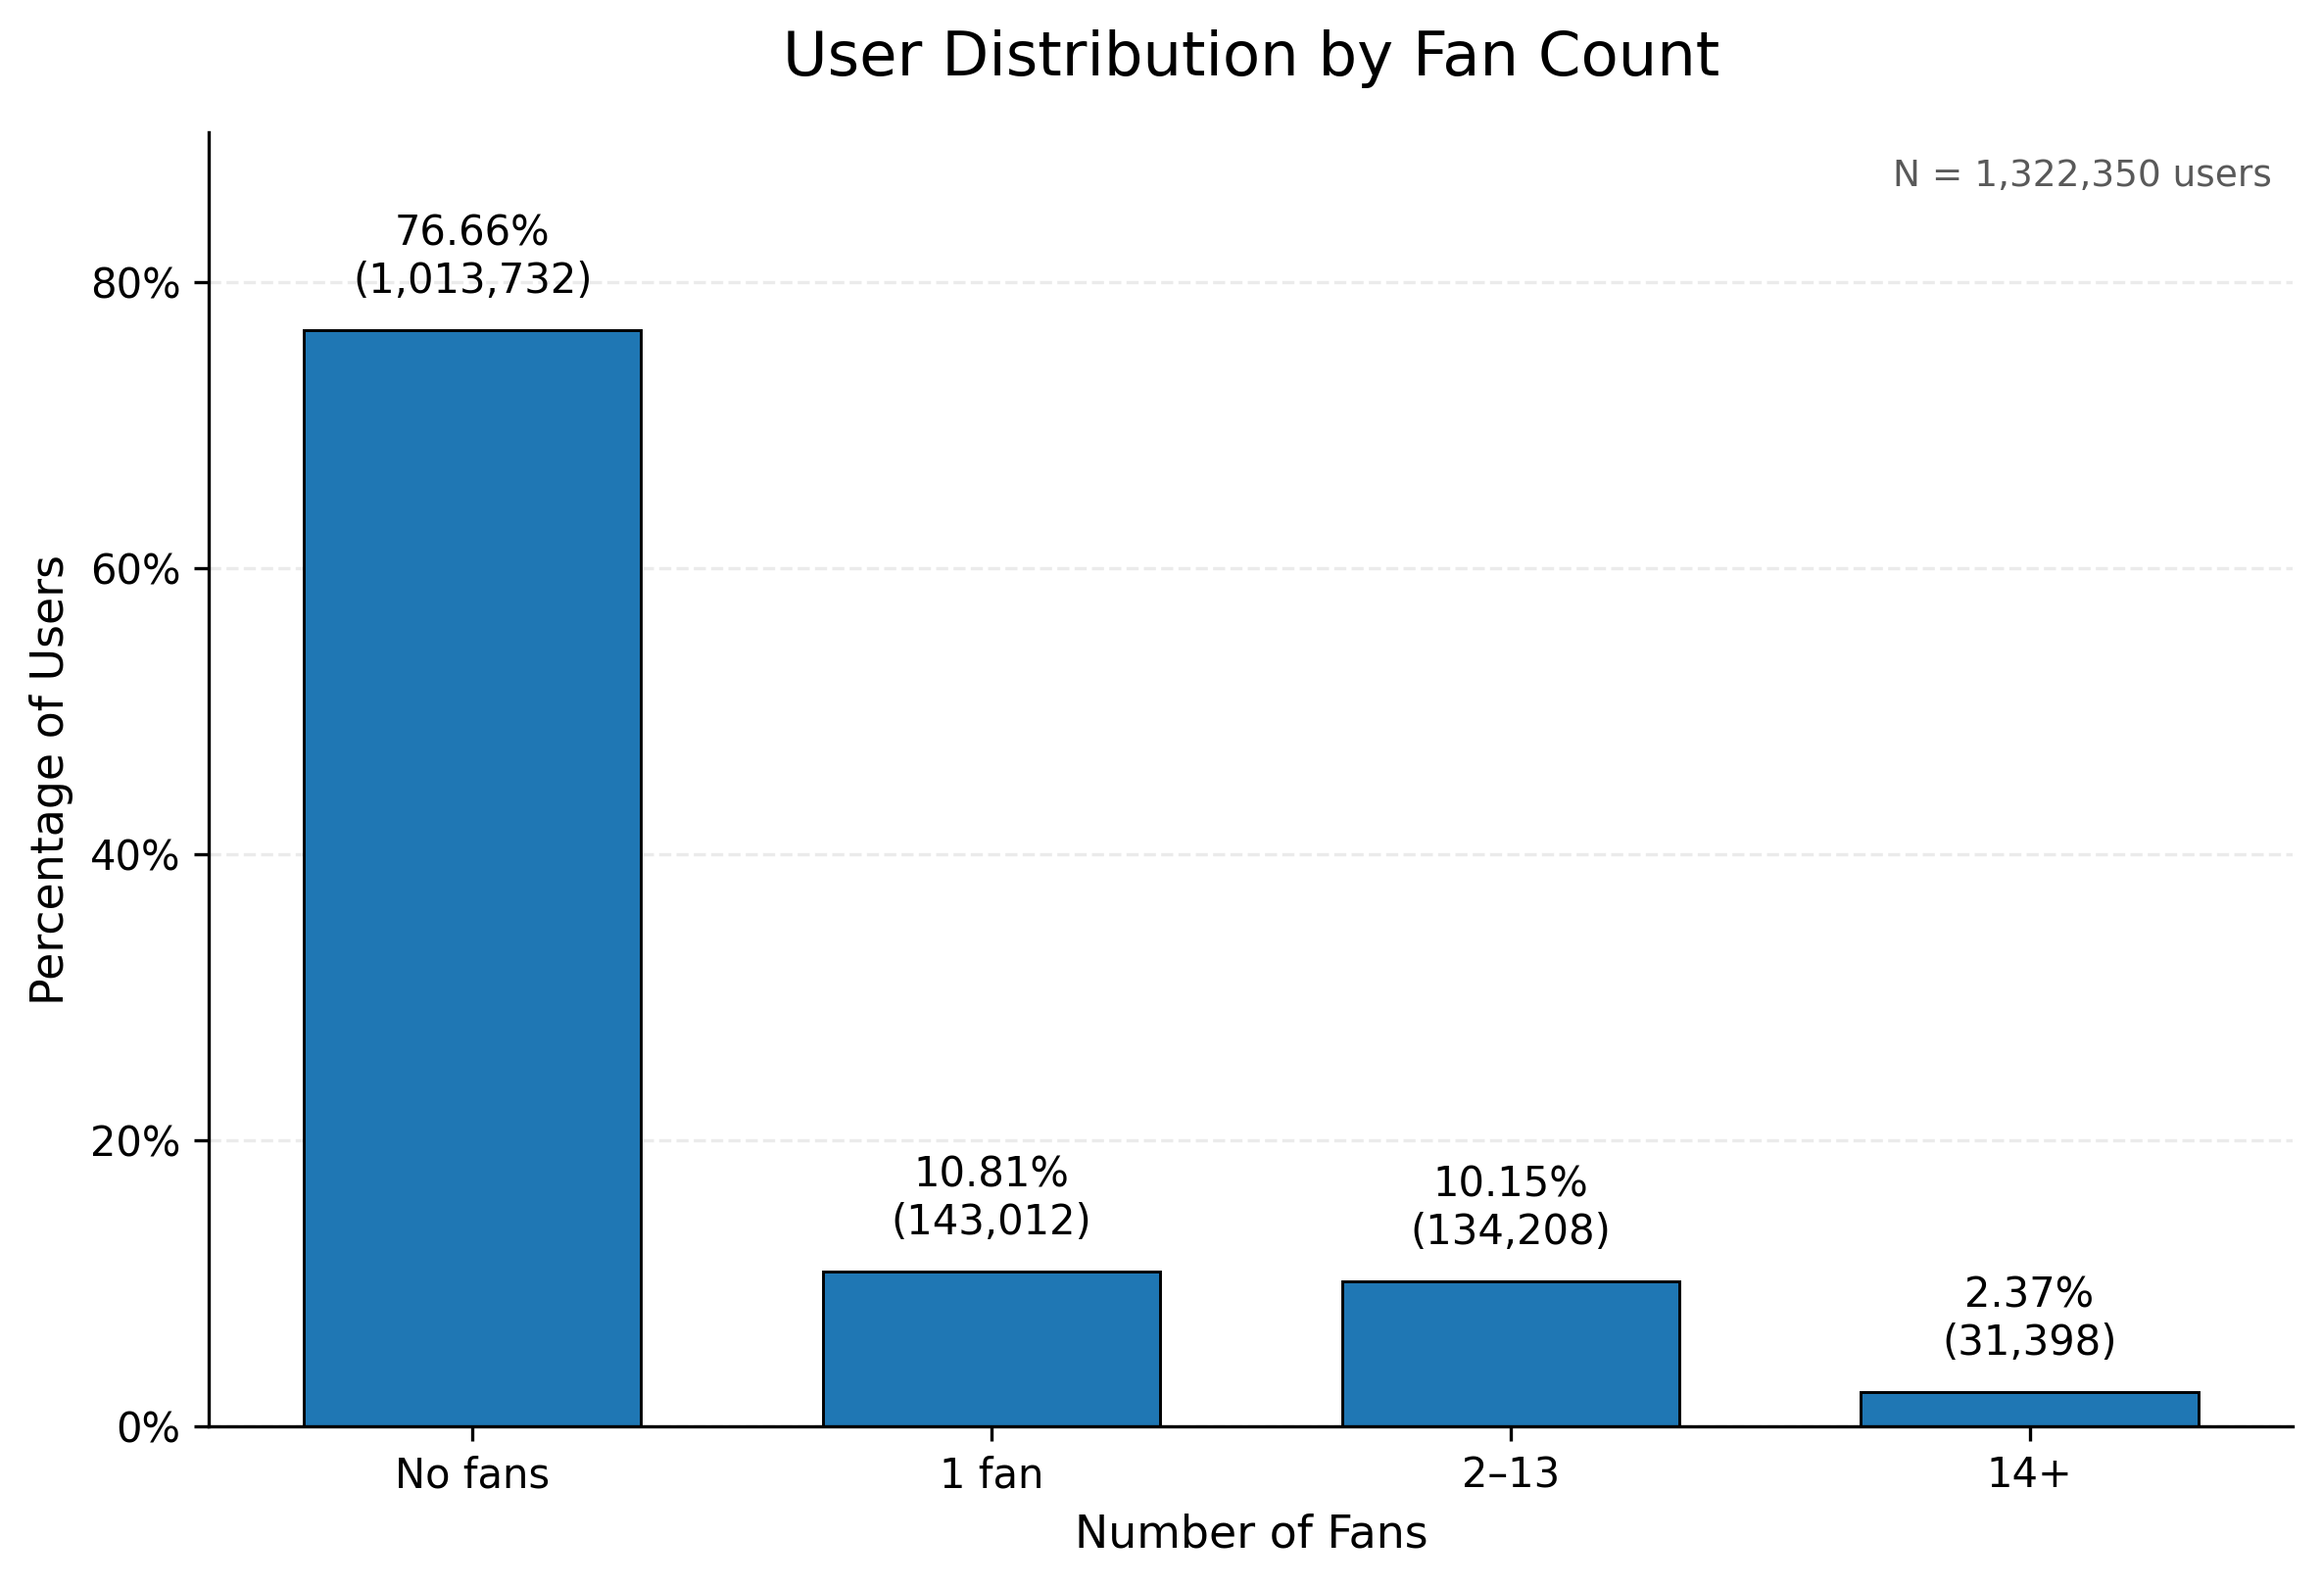
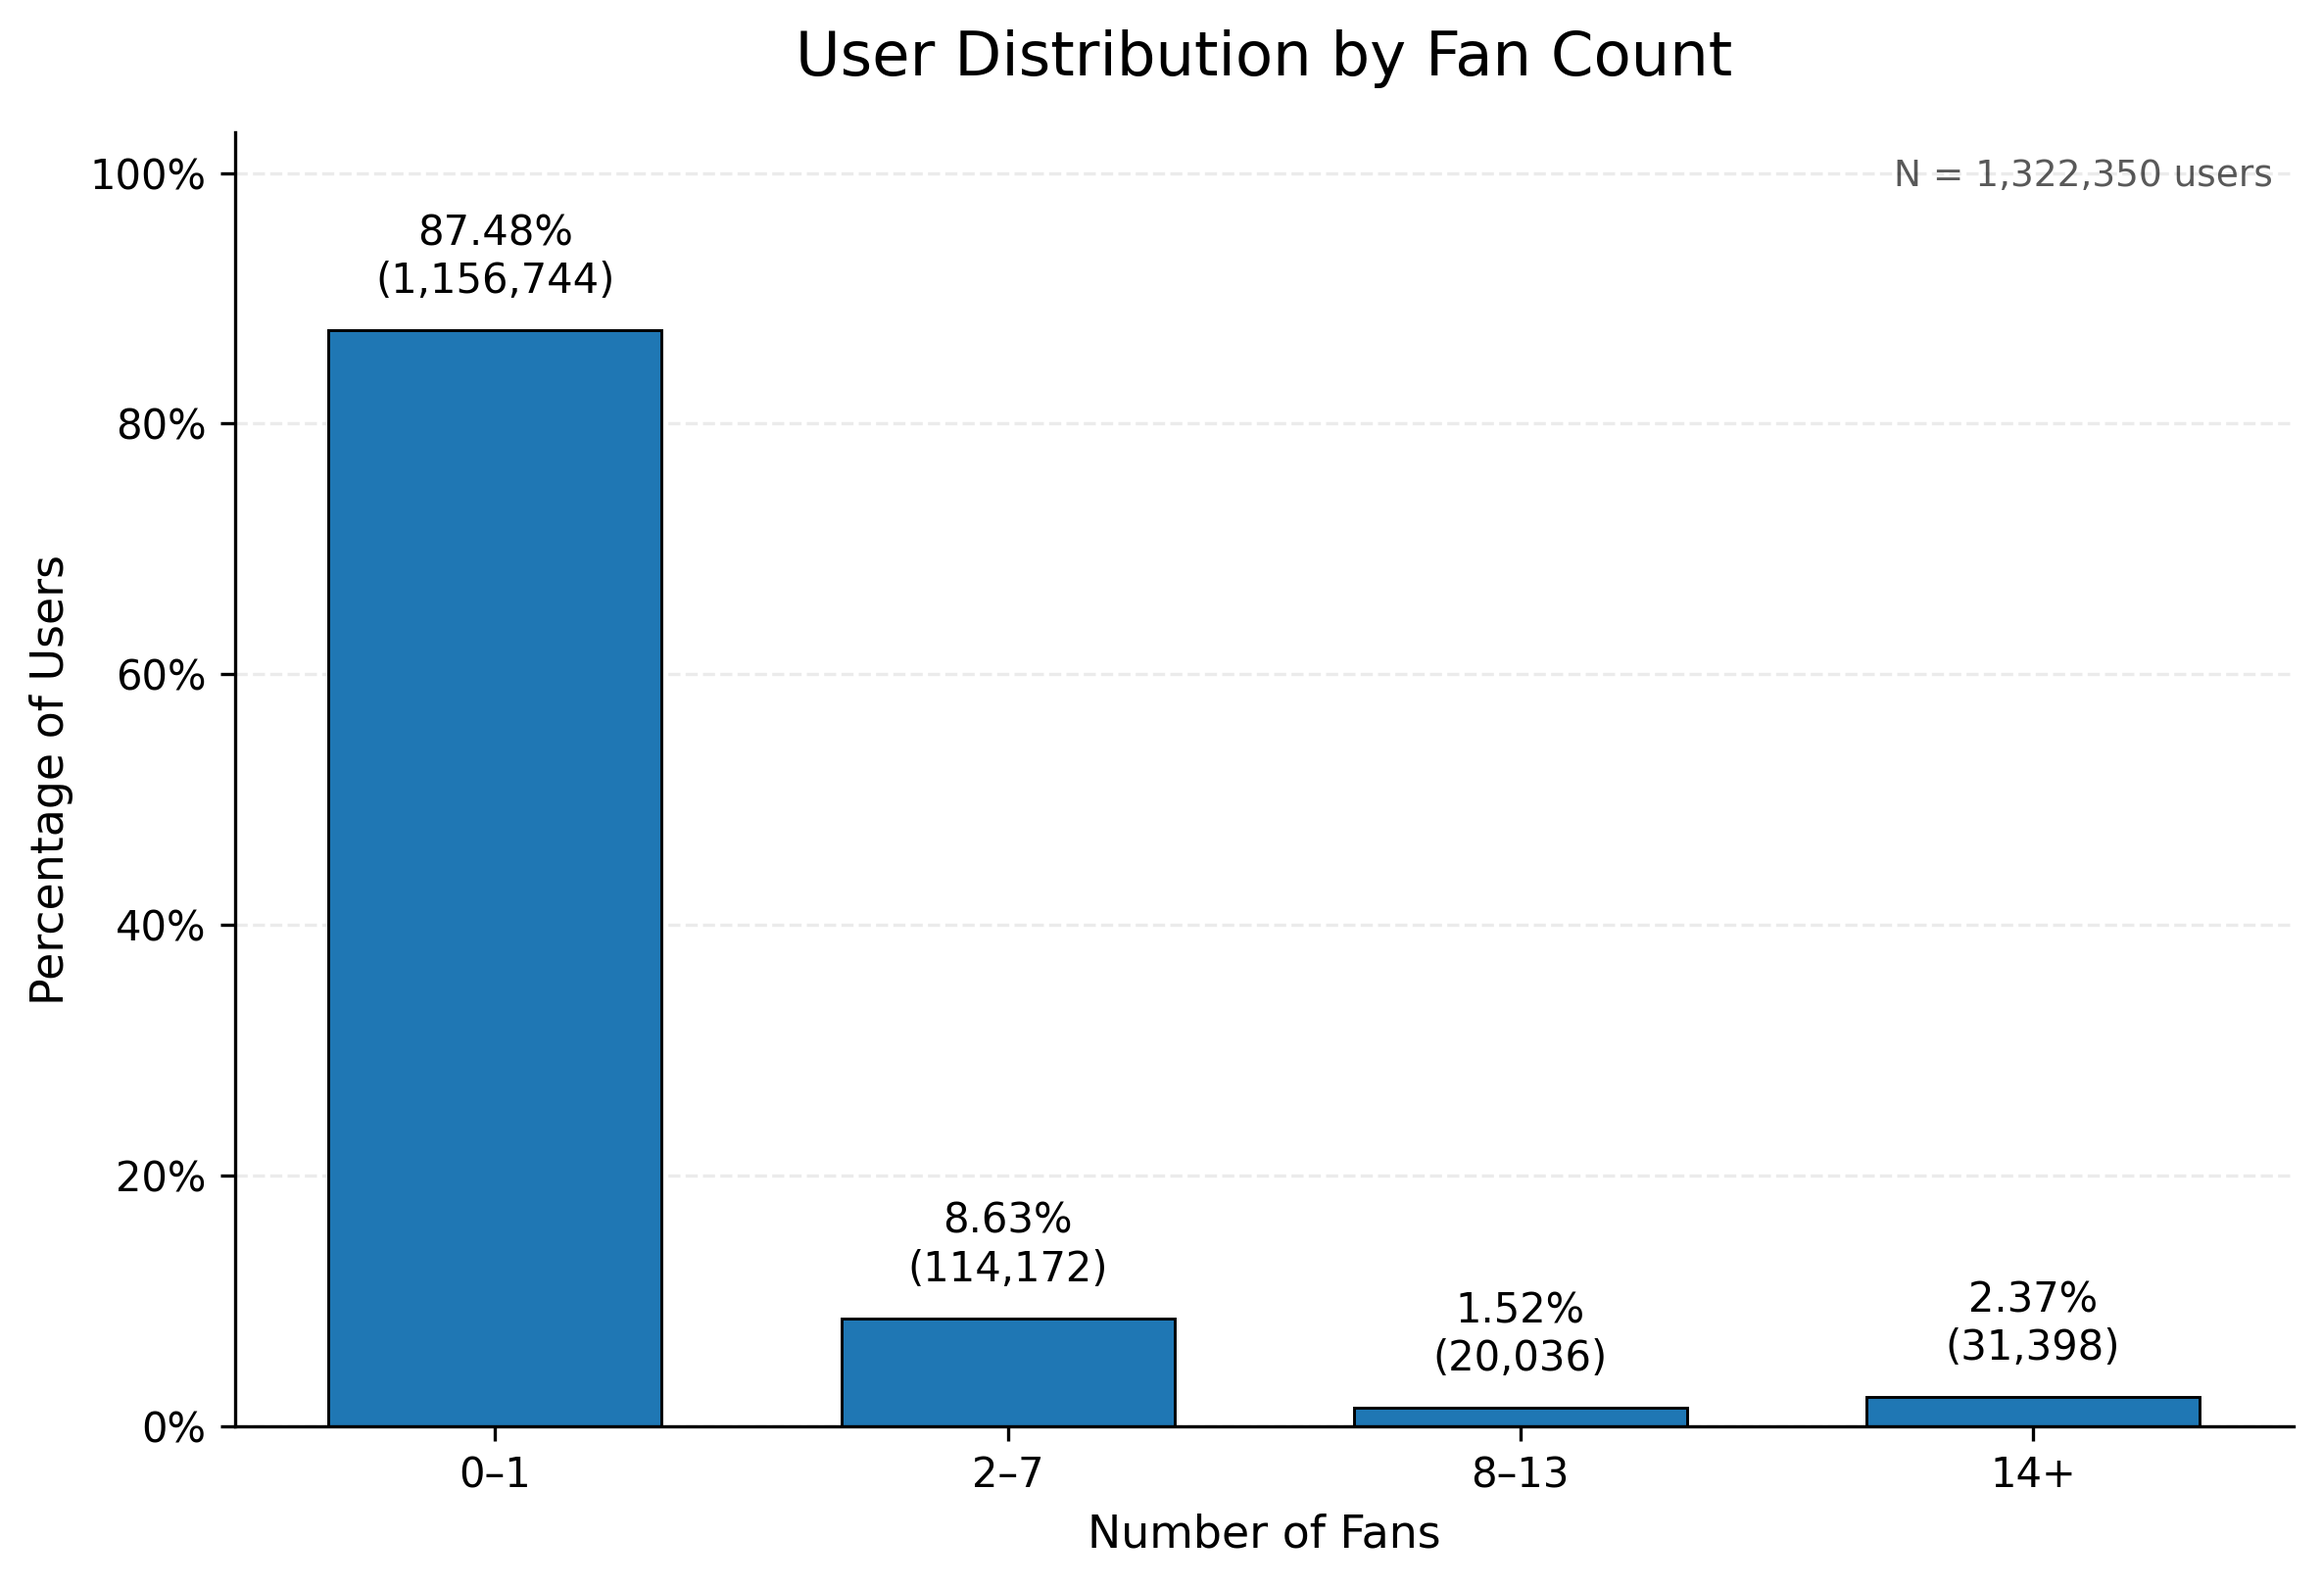
refactor: Changing group separation for fans metadata in Yelp dataset

diff --git a/src/utils/results.py b/src/utils/results.py
@@ -509,13 +509,10 @@ def _group_sort_key(grouping_name: str, group_name: str):
             "101_plus": 3,
         },
         "fans": {
-            "no_fans": 0,
-            "one_fan": 1,
-            "1_10": 1,
-            "2_13": 2,
-            "11_100": 2,
+            "0_1": 0,
+            "2_7": 1,
+            "8_13": 2,
             "14_plus": 3,
-            "101_plus": 3,
         },
         "tenure": {
             "under_1": 0,
@@ -552,10 +549,10 @@ def _group_label(group_name: str) -> str:
         "europe": "Europe",
         "other_locations": "Other Locations",
         "no_friends": "None",
-        "no_fans": "None",
-        "one_fan": "1",
+        "0_1": "0–1",
         "1_10": "1–10",
-        "2_13": "2–13",
+        "2_7": "2–7",
+        "8_13": "8–13",
         "11_100": "11–100",
         "14_plus": "14+",
         "101_plus": "101+",

diff --git a/src/fairness/grouping.py b/src/fairness/grouping.py
@@ -357,12 +357,12 @@ def _friend_count_group(friend_count: float) -> str:
 
 
 def _fans_group(fans: float) -> str:
-    if fans == 0:
-        return "no_fans"
-    if fans == 1:
-        return "one_fan"
+    if fans <= 1:
+        return "0_1"
+    if fans <= 7:
+        return "2_7"
     if fans <= 13:
-        return "2_13"
+        return "8_13"
     
     return "14_plus"
 
